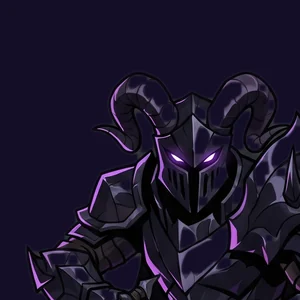
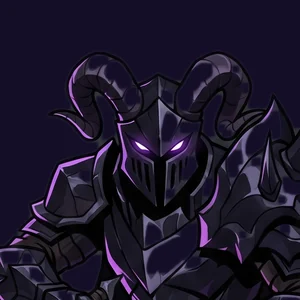
Fix Vex card crop
Claude-Session: https://claude.ai/code/session_01QZSVJshXKkHxSEyYRkjjqW

diff --git a/index.html b/index.html
@@ -4,7 +4,7 @@
 <meta charset="utf-8">
 <meta name="viewport" content="width=device-width,initial-scale=1,user-scalable=no">
 <title>Orb Spire</title>
-<link rel="stylesheet" href="css/orbspire.css?v=202611261534">
+<link rel="stylesheet" href="css/orbspire.css?v=202611261544">
 </head>
 <body>
 <div id="app">
@@ -21,8 +21,8 @@
   <div id="intro"></div>
   <div class="sheet" id="sheet"><div class="box" id="box"></div></div>
 </div>
-<script src="js/data.js?v=202611261534"></script>
-<script src="js/orbspire.js?v=202611261534"></script>
-<script>if("serviceWorker"in navigator)addEventListener("load",()=>navigator.serviceWorker.register("sw.js?v=202611261534").catch(()=>{}))</script>
+<script src="js/data.js?v=202611261544"></script>
+<script src="js/orbspire.js?v=202611261544"></script>
+<script>if("serviceWorker"in navigator)addEventListener("load",()=>navigator.serviceWorker.register("sw.js?v=202611261544").catch(()=>{}))</script>
 </body>
 </html>

diff --git a/sw.js b/sw.js
@@ -1,5 +1,5 @@
 /* Always fetch the newest files when online (skips the browser's 10-minute cache); fall back to the saved copy when offline. */
-const CACHE='orbspire-202611261534';
+const CACHE='orbspire-202611261544';
 self.addEventListener('install',()=>self.skipWaiting());
 self.addEventListener('activate',e=>e.waitUntil(caches.keys().then(k=>Promise.all(k.filter(n=>n!==CACHE).map(n=>caches.delete(n)))).then(()=>self.clients.claim())));
 self.addEventListener('fetch',e=>{
